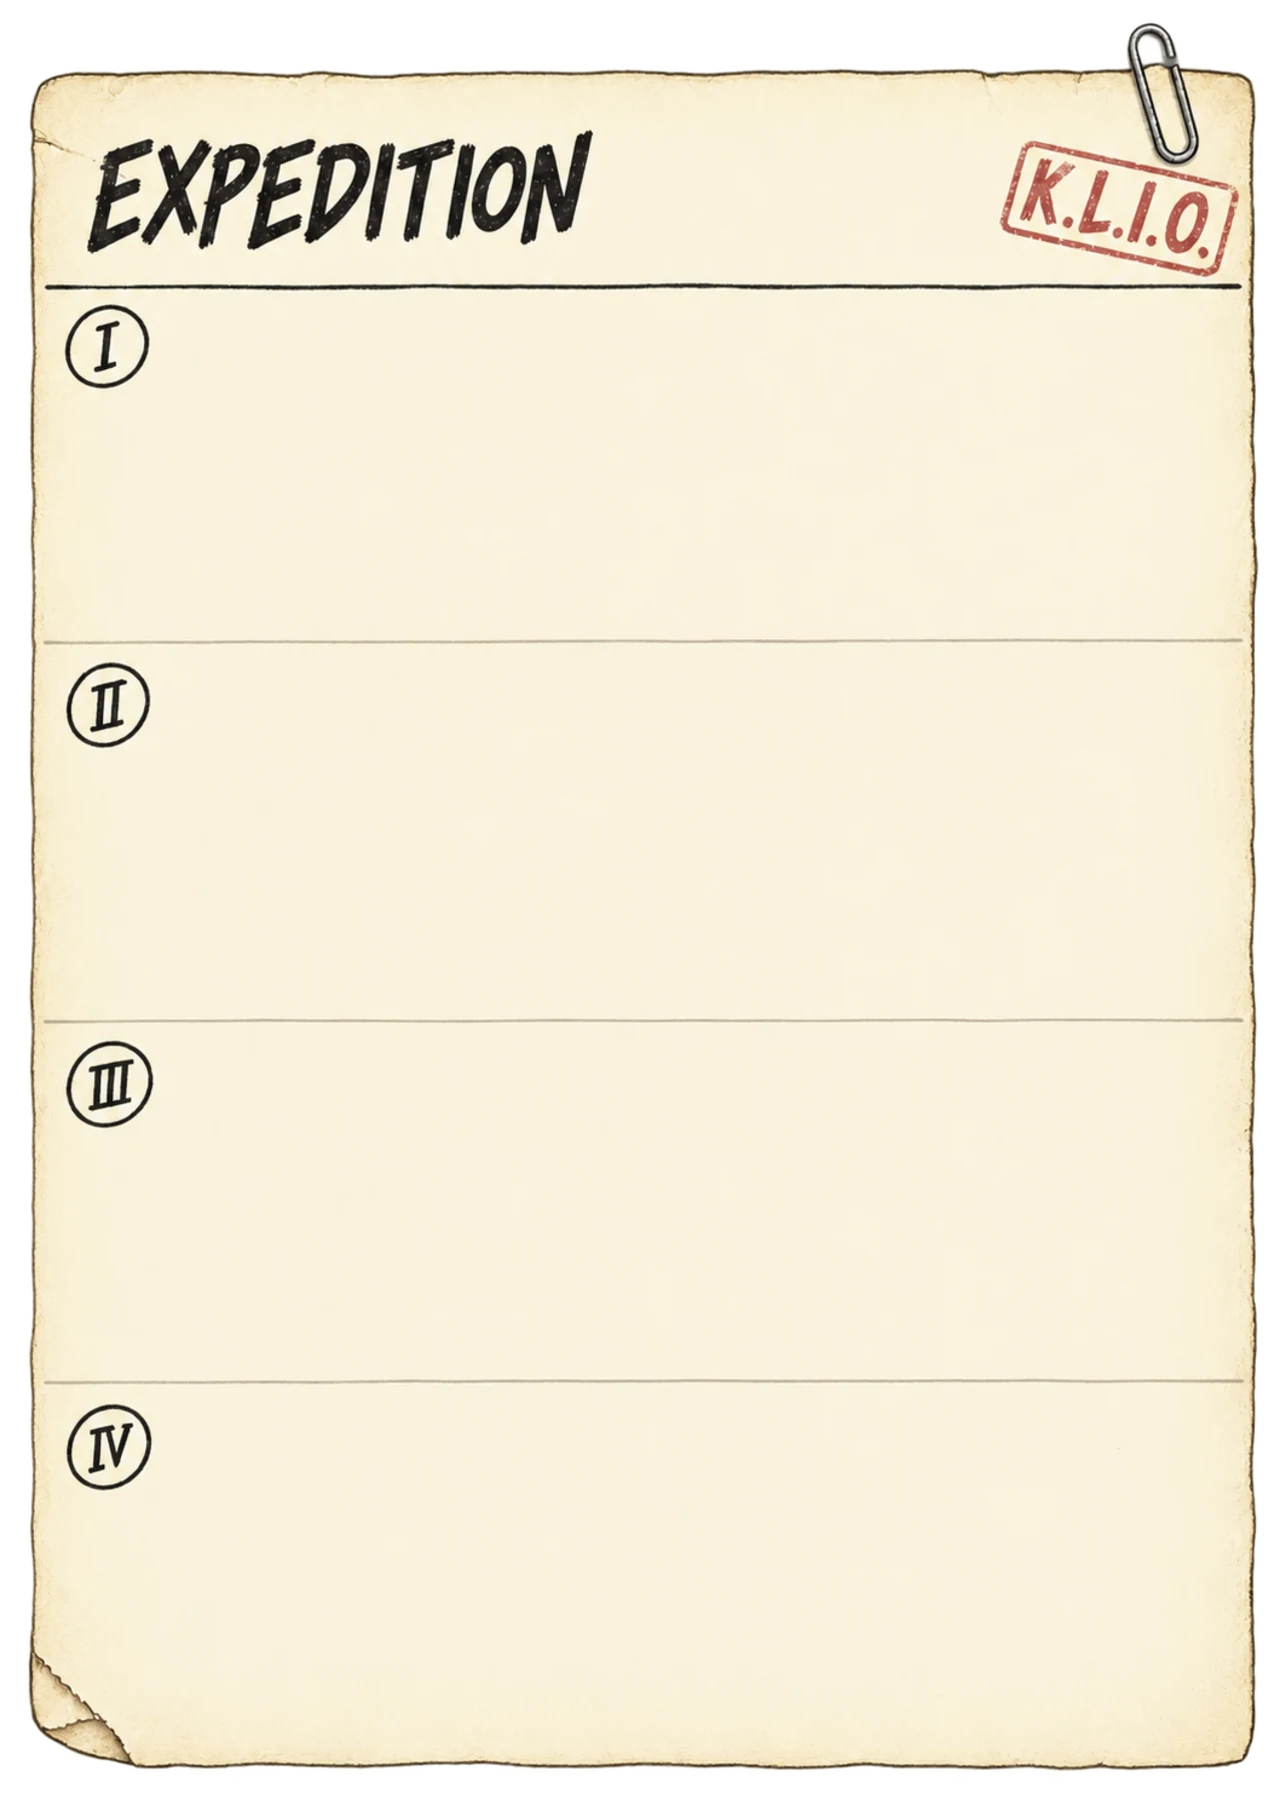
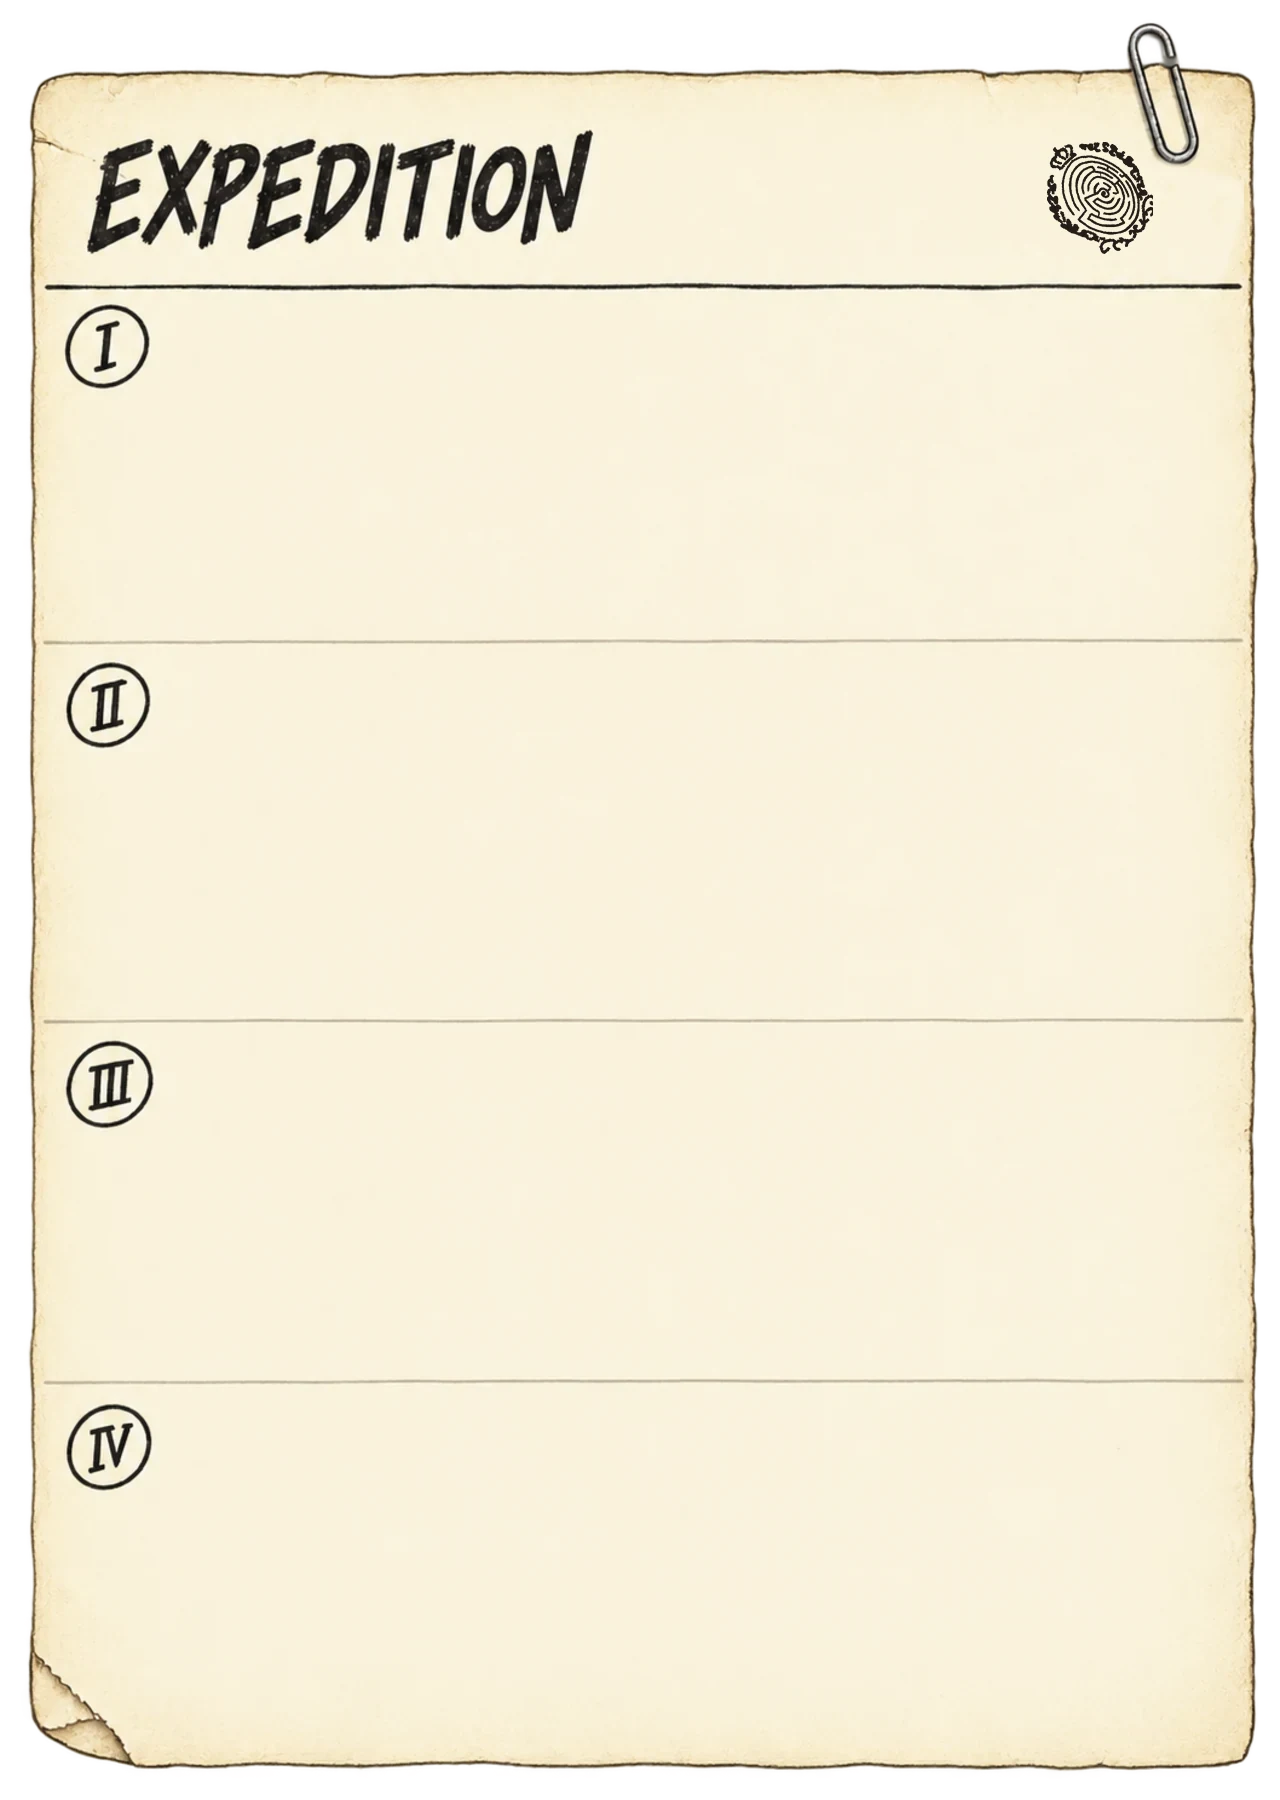
Filz mit Titel „Expeditionstisch“ statt Wortmarke, Expeditionsblatt erneuert
Der obere Rahmen des Filzes trägt jetzt den Titel in derselben Art wie
„Schwierigkeit“; Wortmarke „KLIO“ und Untertitel entfallen. Das Bild des
Expeditionsblatts ist ersetzt.

Changed region(s): [[0.7812, 0.0622, 0.9688, 0.1556]]

diff --git a/src/ui/FeltMarkings.svelte b/src/ui/FeltMarkings.svelte
@@ -1,5 +1,5 @@
 <script lang="ts">
-  // Aufdruck auf dem Filz: Rahmen mit der Wortmarke in seiner oberen Linie, Überschriften mit Strichen, Raute unter dem Zielwert. Liegt unter allen Zonen,
+  // Aufdruck auf dem Filz: Rahmen mit dem Titel in seiner oberen Linie, Überschriften mit Strichen, Raute unter dem Zielwert. Liegt unter allen Zonen,
   // nimmt keine Klicks an. Maße in Tischpunkten ab der Ecke des Filzes; die Striche sind auf die deutschen Texte
   // abgestimmt (längere Überschriften brauchen größere Lücken).
   import type { Layout } from './layout';
@@ -12,10 +12,10 @@
   const SIDE = 72;
   /** Rundung der Ecken des Rahmens */
   const RIM_R = 38;
-  /** Wortmarke: steht mittig auf der oberen Rahmenlinie, die für „KLIO“ eine Lücke lässt; Grundlinie so, dass die
-   *  Großbuchstaben (etwa 18 hoch) auf der Linie zentriert sind */
-  const WORD_Y = RIM + 9;
-  const WORD_GAP = 136;
+  /** Titel „Expeditionstisch“: steht mittig in einer Lücke der oberen Rahmenlinie; Grundlinie so, dass die
+   *  Großbuchstaben auf der Linie zentriert sind (wie bei „Schwierigkeit“) */
+  const TITLE_Y = RIM + 4;
+  const TITLE_GAP = 256;
   /** Überschrift „Schwierigkeit“: Abstand über den Karo-Stapeln, Lücke der Striche für den Text */
   const DIFFICULTY_ABOVE = 38;
   const DIFFICULTY_GAP = 224;
@@ -37,14 +37,13 @@
   const rim = $derived.by(() => {
     const [x0, y0, x1, y1, r] = [RIM, RIM, middle.w - RIM, middle.h - RIM, RIM_R];
     const arc = (x: number, y: number) => `A ${r} ${r} 0 0 1 ${x} ${y}`;
-    return `M ${mid + WORD_GAP / 2} ${y0} H ${x1 - r} ${arc(x1, y0 + r)} V ${y1 - r} ${arc(x1 - r, y1)} H ${x0 + r} ${arc(x0, y1 - r)} V ${y0 + r} ${arc(x0 + r, y0)} H ${mid - WORD_GAP / 2}`;
+    return `M ${mid + TITLE_GAP / 2} ${y0} H ${x1 - r} ${arc(x1, y0 + r)} V ${y1 - r} ${arc(x1 - r, y1)} H ${x0 + r} ${arc(x0, y1 - r)} V ${y0 + r} ${arc(x0 + r, y0)} H ${mid - TITLE_GAP / 2}`;
   });
 </script>
 
 <svg class="felt-markings" viewBox="0 0 {middle.w} {middle.h}" aria-hidden="true">
   <path class="rim" d={rim} />
-  <text class="wordmark" x={mid} dx={center(7)} y={WORD_Y}>KLIO</text>
-  <text class="subtitle" x={mid} dx={center(2.7)} y={WORD_Y + 14}>{t('zones.feltTable')}</text>
+  <text class="heading" x={mid} dx={center(2)} y={TITLE_Y}>{t('zones.feltTable')}</text>
   <path class="rule" d="M {SIDE} {difficultyY} H {mid - DIFFICULTY_GAP / 2} M {mid + DIFFICULTY_GAP / 2} {difficultyY} H {middle.w - SIDE}" />
   <text class="heading" x={mid} dx={center(2)} y={difficultyY + 4}>{t('zones.feltDifficulty')}</text>
   <path class="target" d="M {targetX} {targetY - 17} l 11 17 -11 17 -11 -17 Z" />
@@ -60,7 +59,5 @@
   .target { opacity: 0.25; }
   .ornament { opacity: 0.45; }
   text { fill: currentColor; text-anchor: middle; }
-  .wordmark { font-family: Georgia, serif; font-size: 26px; letter-spacing: 7px; }
-  .subtitle { font-size: 8px; letter-spacing: 2.7px; opacity: 0.65; }
   .heading { font-size: 11px; font-weight: 600; letter-spacing: 2px; opacity: 0.85; }
 </style>
